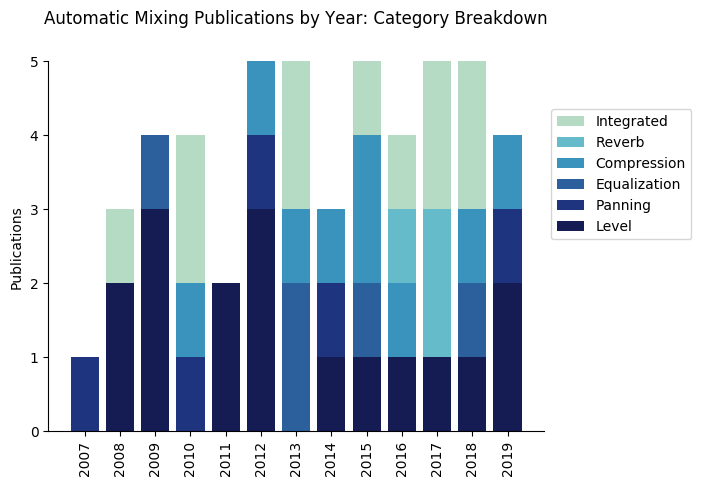
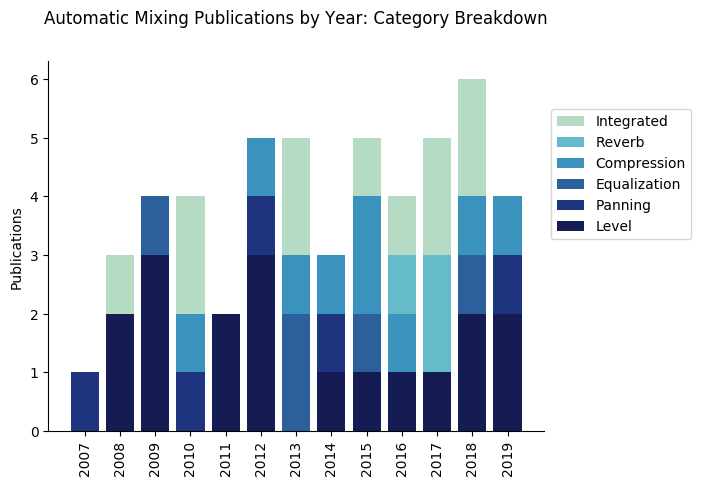
adding MSc thesis from Joaquín Jiménez-Sauma

diff --git a/README.md b/README.md
@@ -28,6 +28,7 @@ If related code or additional resources are available for the publication a link
 |---|---|---|---|---|
 |2019|[Background Ducking to Produce Esthetically Pleasing Audio for TV with Clear Speech](http://www.aes.org/e-lib/browse.cfm?elib=20308)|M. Torcoli, A. Freke-Morin, J. Paulus, C. Simon, B. Shirley|KE|No|
 |2019|[Automatic Mixing Level Balancing Enhanced through Source Interference Identification](http://www.aes.org/e-lib/browse.cfm?elib=20355)|D. Moffat and M. B. Sandler|GT|No|
+|2018|[Real-time multi-track mixing for live performance](https://zenodo.org/record/2550903)|Joaquín Jiménez-Sauma|GT|[Yes](https://github.com/jjsauma/msmc)|
 |2018|[Automatic Mixing of Multitrack Material Using Modified Loudness Models](http://www.aes.org/e-lib/browse.cfm?conv=145&papernum=10041)|S. Fenton|KE|No|
 |2017|[Automatic masking reduction in balance mixes using evolutionary computing](http://www.aes.org/e-lib/browse.cfm?elib=19210)|N. Jillings, R. Stables|ML|No|
 |2016|[An evolutionary computation approach to intelligent music production, informed by experimentally gathered domain knowledge](http://usir.salford.ac.uk/44278/1/Wilson.pdf)|A. Wilson and B. Fazenda|ML|No|
